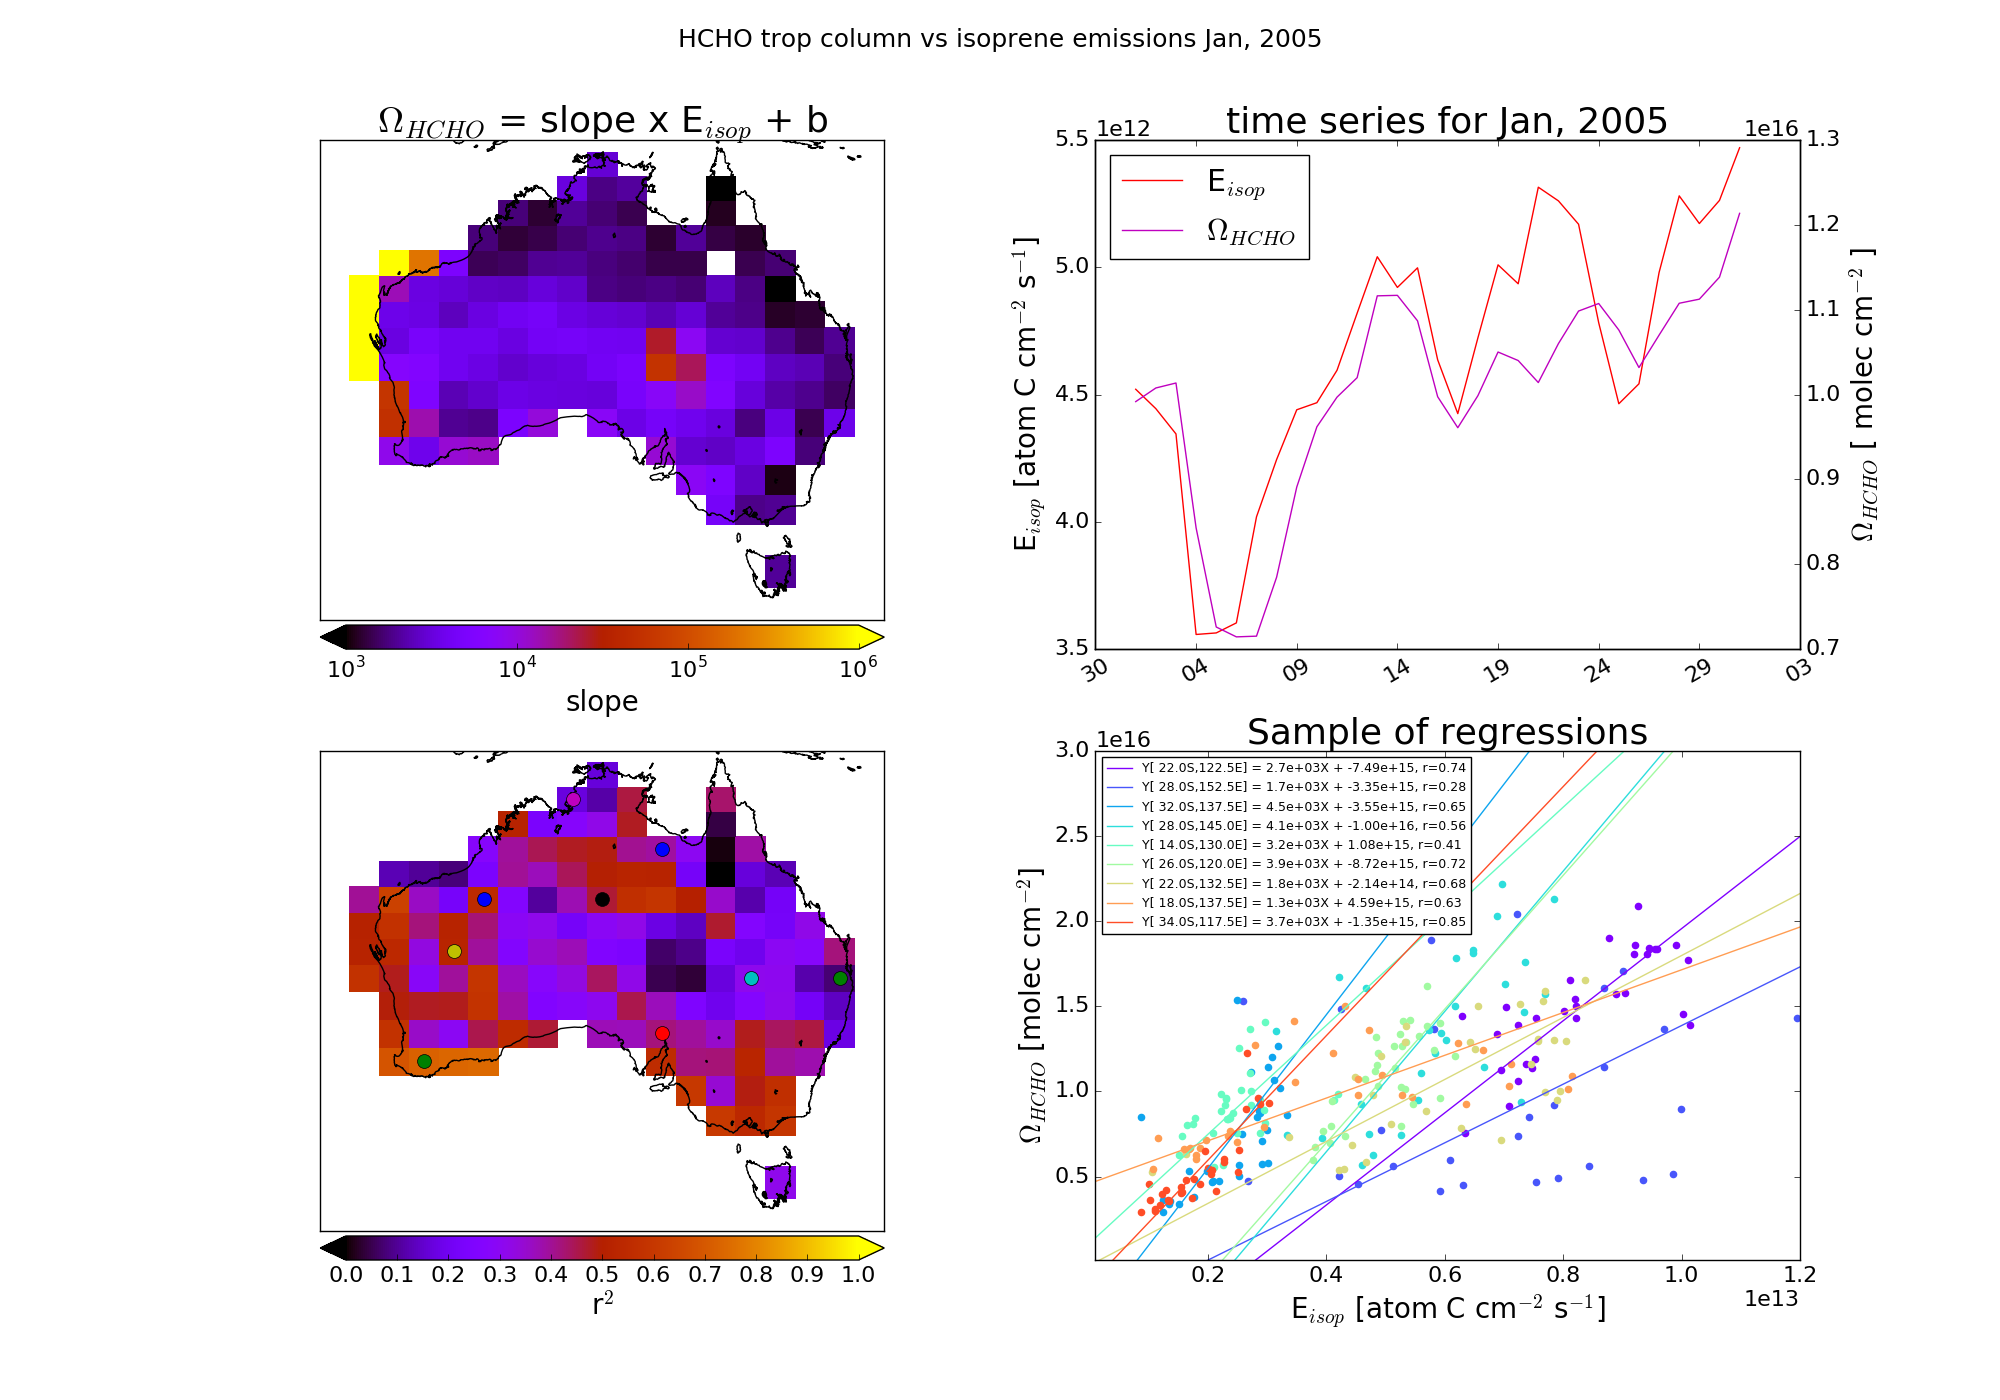
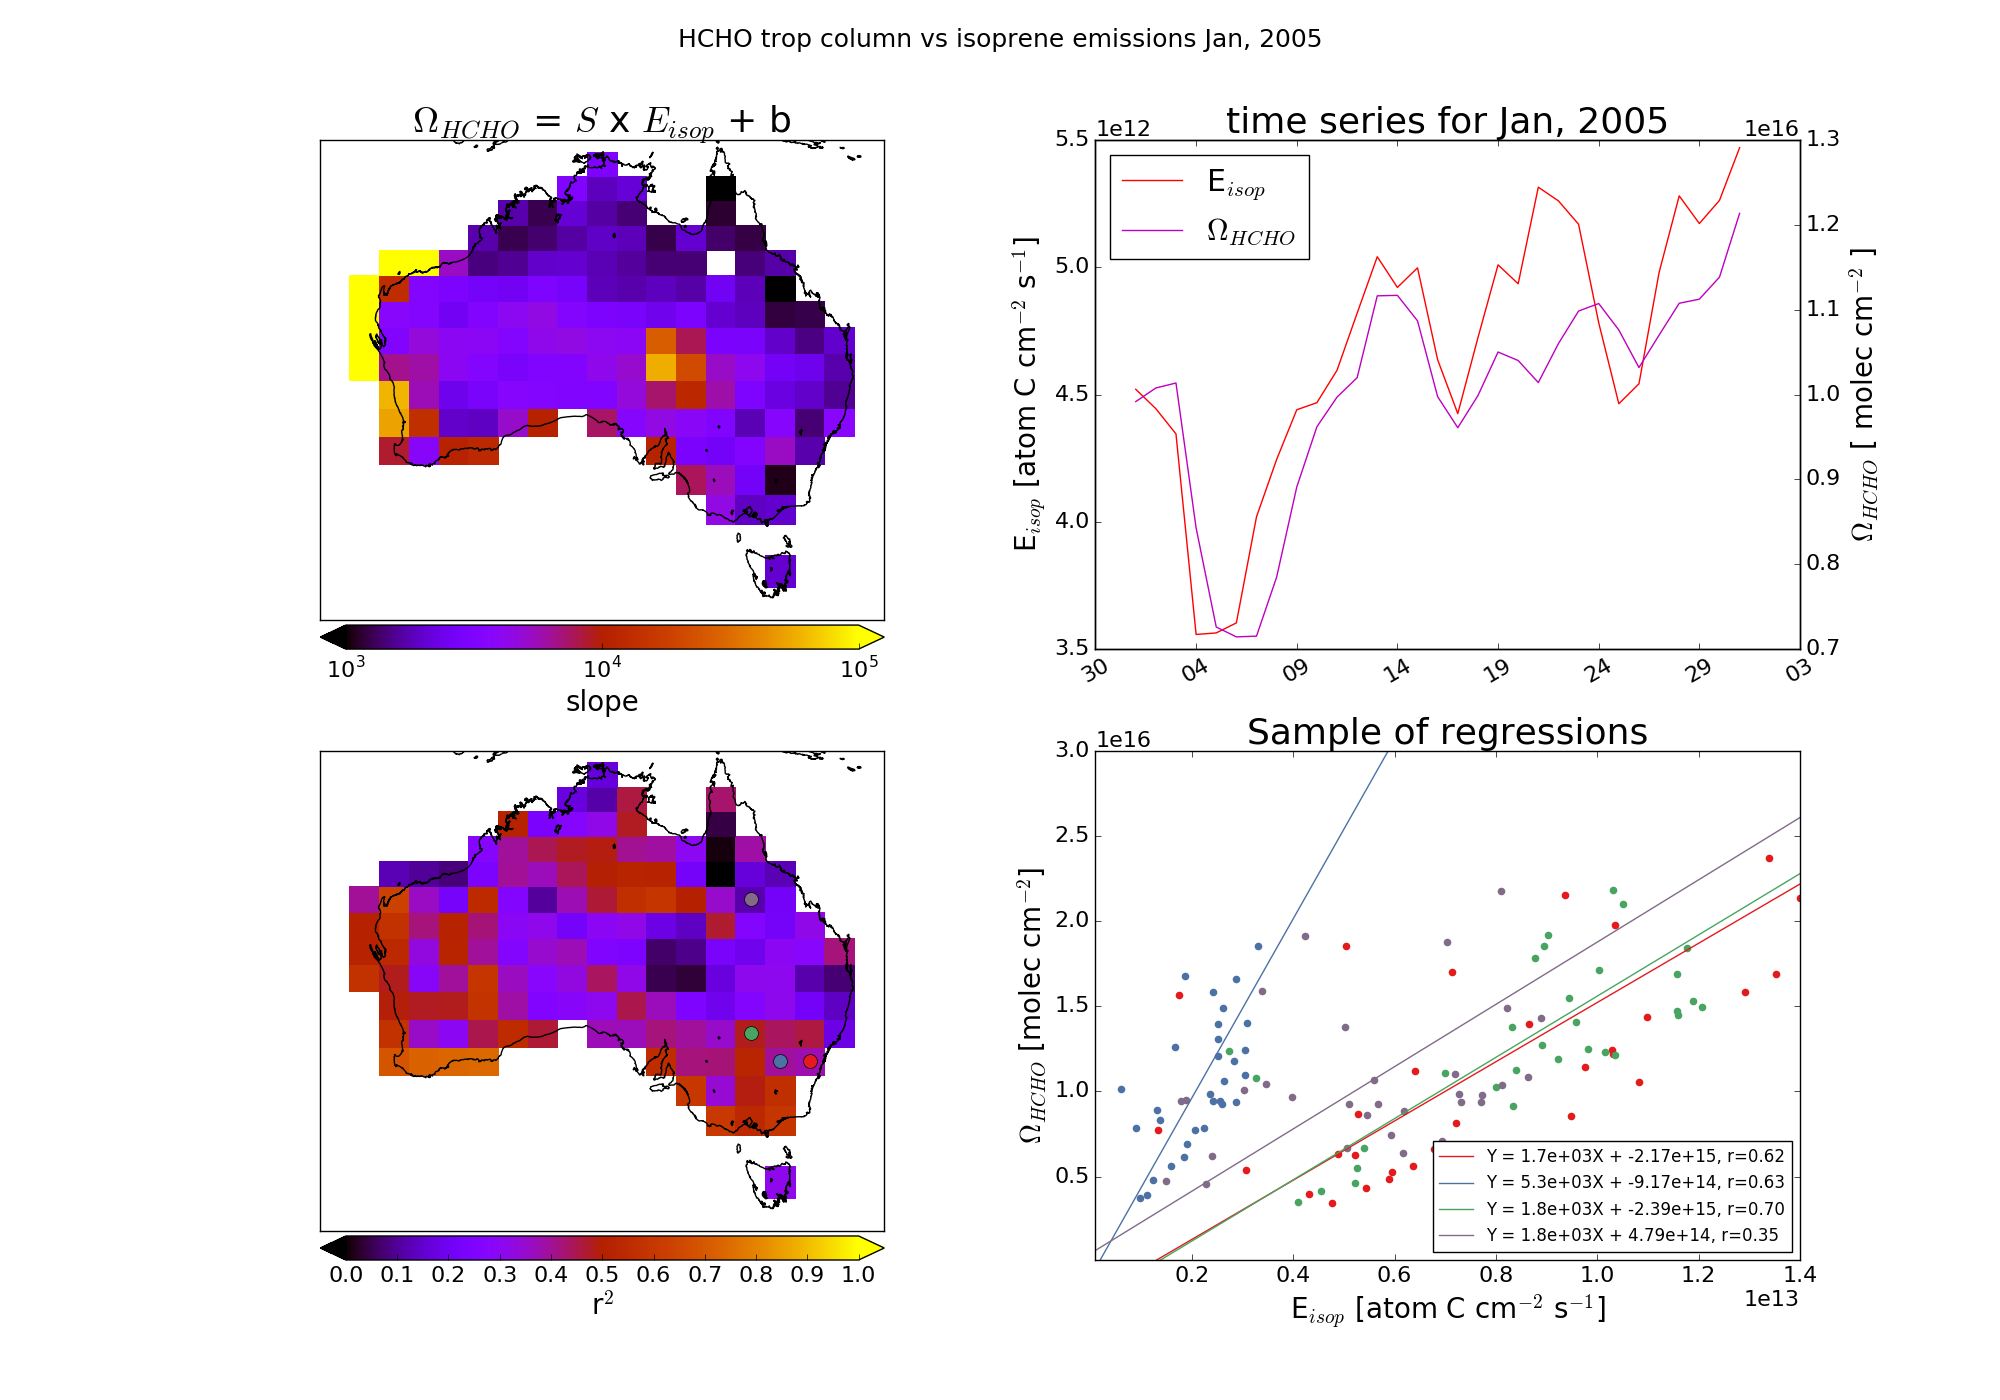
updated RMA plot, updated smearmask

diff --git a/utilities/masks.py b/utilities/masks.py
@@ -78,11 +78,17 @@ def make_smear_mask_file(year, region=pp.__AUSREGION__, use_GC_lifetime=True):
     #yields      = np.zeros(tau.shape)
     slope       = np.zeros(tau.shape)
     smear       = np.zeros(tau.shape)
-    smearmin    = np.zeros(tau.shape)
-    smearmax    = np.zeros(tau.shape)
-    smearmask   = np.zeros(tau.shape, dtype=np.int)
+    smearmin    = np.zeros(tau.shape) # dynamic smear mask if possible from geos-chem
+    smearmax    = np.zeros(tau.shape) # dynamic smear mask ..
+    smearmask   = np.zeros(tau.shape, dtype=np.int) # smearmask from GEOS-Chem or Caaba Mecca if possible
 
-    # first read year of GC lifetimes
+    #1.5hrs at 0.2 yield up to 4hrs at .4 yield minus roughly 10%
+    smearminlit = 900
+    smearmaxlit = 5000
+    smearmasklit= np.zeros(tau.shape, dtype=np.int) # smearmask from literature (900-5000)
+
+    ## first read year of GC lifetimes
+    # one month at a time: starting at jan
     di0 = util.date_index(d0,dates,util.last_day(d0))
     tau[di0] = tau0
     print("CHECK: Reading year of GC loss rates and concentrations to get lifetimes")
@@ -100,6 +106,11 @@ def make_smear_mask_file(year, region=pp.__AUSREGION__, use_GC_lifetime=True):
         smeari, datesi, latsi, lonsi = Inversion.smearing(month, region)
         di = util.date_index(datesi[0],dates,util.last_day(datesi[0]))
         smear[di] = smeari
+
+    ## Smearmask based on literature
+    #
+    smearmasklit[smear < smearminlit] = 1
+    smearmasklit[smear > smearmaxlit] = 1
 
     ## read monthly slope
     #
@@ -120,14 +131,15 @@ def make_smear_mask_file(year, region=pp.__AUSREGION__, use_GC_lifetime=True):
 
     ## Now create mask based on smearing number
     ##
-    # If we assume lifetimes are roughly half that estimated from GEOS-Chem, we 
+    # If we assume lifetimes are roughly half that estimated from GEOS-Chem, we
     # can get a range of acceptable yields for each grid square..
-    
-    
+
+
     ## Finally save the data to a file
     ## add attributes to be saved in file
     #
-    dattrs  = {'smearmask':{'units':'int','desc':'0 or 1: grid square potentially affected by smearing'},
+    dattrs = {'smearmask':{'units':'int','desc':'0 or 1: grid square potentially affected by smearing'},
+              'smearmasklit':{'units':'int','desc':'0 or 1: smearing outside range of 900 to 5000 (estimated from literature)'},
               'dates':{'units':'gregorian','desc':'hours since 1985,1,1,0,0: day axis of anthromask array'},
               'lats':{'units':'degrees','desc':'latitude centres north (equator=0)'},
               'lons':{'units':'degrees','desc':'longitude centres east (gmt=0)'},
@@ -139,6 +151,7 @@ def make_smear_mask_file(year, region=pp.__AUSREGION__, use_GC_lifetime=True):
     #
     dates=util.gregorian_from_dates(dates)
     datadict={'smearmask':smearmask,'dates':dates,'lats':lats,'lons':lons,
+              'smearmasklit':smearmasklit,
               'smear':smear, 'yields':yields,'tau':tau, 'slope':slope}
 
     # filename and save to h5 file
@@ -147,7 +160,7 @@ def make_smear_mask_file(year, region=pp.__AUSREGION__, use_GC_lifetime=True):
 
 def read_smearmask(d0, dN=None, keys=None):
     '''
-        Read smearmask (or extra keys) between d0 and dN 
+        Read smearmask (or extra keys) between d0 and dN
     '''
     path= 'Data/smearmask_%d.h5'%d0.year
     data, attrs = fio.read_hdf5(path)
@@ -155,25 +168,26 @@ def read_smearmask(d0, dN=None, keys=None):
     dates = util.date_from_gregorian(data['dates'])
     data['dates'] = np.array(dates)
     attrs['dates']['units'] = 'numpy datetime'
-    
+
     di = util.date_index( d0, dates, dN)
-    for key in ['smearmask','smear','yields','tau','slope', 'dates']:
+    for key in ['smearmask','smearmasklit','smear','yields','tau','slope', 'dates']:
         data[key]=data[key][di]
-    
+
     # subset to desired keys
     if keys is not None:
-        for key in ['smearmask','smear','yields','tau','slope']:
+        for key in ['smearmask','smearmasklit','smear','yields','tau','slope']:
             if key not in keys:
                 removed = data.pop(key)
                 removed = attrs.pop(key)
     return data, attrs
 
-def get_smear_mask(d0, dN=None):
+def get_smear_mask(d0, uselitmask=True, dN=None):
     '''
         Just grab smearing mask in true/false from d0 to dN
     '''
-    data, attrs = read_smearmask(d0, dN, keys=['smearmask'])
-    smearmask=data['smearmask'] > 0.5
+    key = ['smearmask','smearmasklit'][uselitmask]
+    data, attrs = read_smearmask(d0, dN, keys=[key,])
+    smearmask=data[key] > 0.5
     dates=data['dates']
     return smearmask,dates,data['lats'],data['lons']
 

diff --git a/GC_tests.py b/GC_tests.py
@@ -1281,7 +1281,9 @@ def Examine_Model_Slope(month=datetime(2005,1,1)):
     hcho_min=1e14
     hcho_max=3e16
     Eisop_min=1e11
-    Eisop_max=1.2e13
+    Eisop_max=1.4e13
+    slopemin=1e3
+    slopemax=1e5
     cmapname='gnuplot'
     # plot names
     pname=month.strftime('Figs/GC/E_isop_vs_hcho_%Y%m.png')
@@ -1307,10 +1309,10 @@ def Examine_Model_Slope(month=datetime(2005,1,1)):
     plt.sca(axes[0,0]) # first plot slope
     vmin=1e-7
     slope[slope < vmin] = np.NaN # Nan the zeros and negatives for nonlinear plot
-    pp.createmap(slope, lats, lons, vmin=1e3, vmax=1e6,
+    pp.createmap(slope, lats, lons, vmin=slopemin, vmax=slopemax,
                  aus=True, linear=False, cmapname=cmapname,
                  suptitle="HCHO trop column vs isoprene emissions %s"%ymstr,
-                 clabel='slope', title=r'$\Omega_{HCHO}$ = slope x E$_{isop}$ + b')
+                 clabel='slope', title=r'$\Omega_{HCHO}$ = $S$ x $E_{isop}$ + b')
     plt.sca(axes[1,0]) # then plot r2 and save figure
     bmap,cs,cb = pp.createmap(reg**2,lats,lons,vmin=0,vmax=1.0,
                               aus=True,linear=True, cmapname=cmapname,
@@ -1335,11 +1337,21 @@ def Examine_Model_Slope(month=datetime(2005,1,1)):
     plt.autoscale(True)
     # plot a sample of ii_max scatter plots and their regressions
     ii=0; ii_max=9
-    colours=[cm.rainbow(i) for i in np.linspace(0, 0.9, ii_max)]
-    randlats= np.random.choice(range(len(lats)), size=30)
-    randlons= np.random.choice(range(len(lons)), size=30)
+    colours=[cm.Set1(i) for i in np.linspace(0, 0.9, ii_max)]
+    randlati= np.random.choice(range(len(lats)), size=30)
+    randloni= np.random.choice(range(len(lons)), size=30)
+    # UPDATE: using sydney, west of sydney, and 2 west 1 north of sydney as sample
+    # also use mid queensland
+    samplelats = [-34, -34, -32, -22]
+    samplelons = [ 151, 148.5, 146, 145]
+    randlati, randloni=[],[]
+    for i in range(len(samplelats)):
+        randlattmp, randlontmp  = util.lat_lon_index(samplelats[i],samplelons[i],lats,lons)
+        randlati.append(randlattmp)
+        randloni.append(randlontmp)
+
     # loop over random lats and lons
-    for xi,yi in zip(randlons,randlats):
+    for xi,yi in zip(randloni,randlati):
         if ii==ii_max: break
         lat=lats[yi]; lon=lons[xi]
         X=isop[:,yi,xi]; Y=hcho[:,yi,xi]
@@ -1347,14 +1359,15 @@ def Examine_Model_Slope(month=datetime(2005,1,1)):
         xlims=np.array([Eisop_min,Eisop_max])
         # add dot to map
         plt.sca(axes[1,0])
-        bmap.plot(lon,lat,latlon=True,markersize=10,marker='o',)
+        bmap.plot(lon,lat,latlon=True,markersize=10,marker='o',color=colours[ii])
 
         # Plot scatter and regression
         plt.sca(axes[1,1])
         plt.scatter(X,Y,color=colours[ii])
         m,b,r = slope[yi,xi],off[yi,xi],reg[yi,xi]
         plt.plot(xlims, m*xlims+b,color=colours[ii],
-            label='Y[%5.1fS,%5.1fE] = %.1eX + %.2e, r=%.2f'%(-1*lat,lon,m,b,r))
+                 label='Y = %.1eX + %.2e, r=%.2f'%(m,b,r))
+            #label='Y[%5.1fS,%5.1fE] = %.1eX + %.2e, r=%.2f'%(-1*lat,lon,m,b,r))
 
         ii=ii+1
     plt.xlim(xlims)
@@ -1362,7 +1375,7 @@ def Examine_Model_Slope(month=datetime(2005,1,1)):
     plt.xlabel(r'E$_{isop}$ [atom C cm$^{-2}$ s$^{-1}$]')
     plt.ylabel(r'$\Omega_{HCHO}$ [molec cm$^{-2}$]')
     plt.title('Sample of regressions')
-    plt.legend(loc=0,fontsize=9) # show legend
+    plt.legend(loc=0,fontsize=12) # show legend
 
     plt.savefig(pname)
     plt.close()
@@ -1444,7 +1457,7 @@ if __name__=='__main__':
 
     ## Look at HCHO lifetime over Australia
     #
-    hcho_lifetime(2005)
+    #hcho_lifetime(2005)
 
     ## UCX VS TROPCHEM AMF
     #
@@ -1456,7 +1469,7 @@ if __name__=='__main__':
 
     # Checking units:
 
-    #Examine_Model_Slope() # unfinished 30/5/18
+    Examine_Model_Slope() # unfinished 30/5/18
     #check_rsc_interp()   # last run 29/5/18
 
     #HCHO_vs_temp(d0=d0,d1=d1,

diff --git a/localtests.py b/localtests.py
@@ -63,64 +63,7 @@ start1=timeit.default_timer()
 ##########
 ### DO STUFFS
 ##########
-
-year=2005
-d0          = datetime(year,1,1)
-dN          = datetime(year,12,31)
-data, attrs = masks.read_smearmask(d0,dN)
-tau         = data['tau']
-lats        = data['lats']
-lons        = data['lons']
-dates       = data['dates']
-d64         = util.datetimes_from_np_datetime64(dates, reverse=True)
-summer      = util.date_index(datetime(year,1,1),dates, util.last_day(datetime(year,2,1)))
-winter      = util.date_index(datetime(year,6,1),dates, datetime(year,8,31))
-
-f=plt.figure(figsize=(14,14))
-ax=plt.subplot(2,2,1)
-pp.createmap(np.nanmean(tau[summer],axis=0), lats,lons,aus=True,
-             vmin=2, vmax=12,linear=True, clabel='hrs',title='Summer')
-ax.spines['top'].set_visible(False)
-ax.spines['right'].set_visible(False)
-ax.spines['bottom'].set_visible(False)
-ax.spines['left'].set_visible(False)
-
-ax = plt.subplot(2,2,2)
-bmap,cs,cb = pp.createmap(np.nanmean(tau[winter],axis=0), lats,lons,aus=True,
-                          vmin=2, vmax=12,linear=True, clabel='hrs',title='Winter')
-ax.spines['top'].set_visible(False)
-ax.spines['right'].set_visible(False)
-ax.spines['bottom'].set_visible(False)
-ax.spines['left'].set_visible(False)
-
-oceanmask=util.oceanmask(lats,lons)
-colors=pp.get_colors('plasma',len(lats)*len(lons))
-for yi, y in enumerate(lats):
-    for xi, x in enumerate(lons):
-        if not oceanmask[yi,xi]:
-            color=colors[yi*len(lons)+xi]
-
-            # add marker to winter map
-            plt.subplot(2,2,2)
-            mx,my = bmap(x, y)
-            bmap.plot(mx, my, 'o', markersize=5, color=color)
-
-            # use color for timeseries
-            plt.subplot(2,1,2)
-            plt.plot(d64,tau[:,yi,xi], 'o', color=color, alpha=0.7, linewidth=0)
-
-
-
-plt.ylim([2,20])
-plt.ylabel('hrs')
-plt.tight_layout()
-plt.suptitle('HCHO lifetime %d'%year,fontsize=20)
-fname='Figs/Filters/tau_%d.png'%year
-plt.savefig(fname)
-print('saved ',fname)
-plt.close()
-
-
+masks.make_smear_mask_file(2005)
 
 
 
